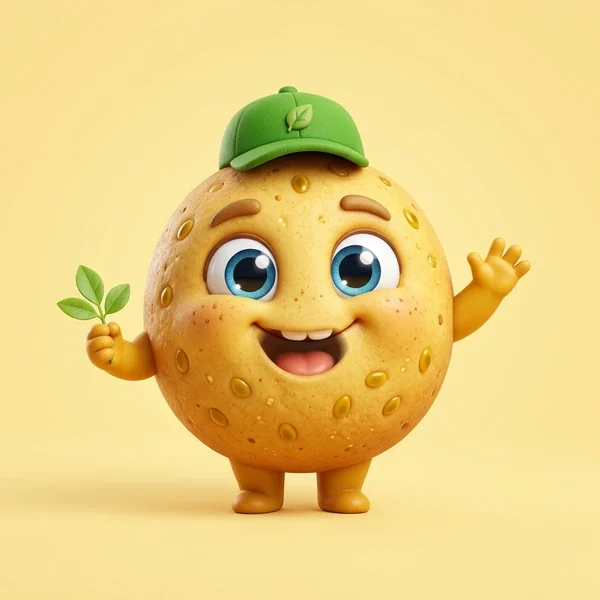
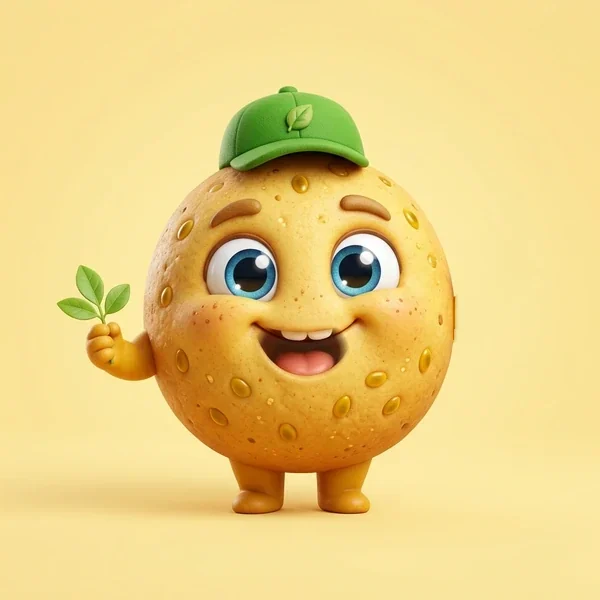
feat: brazo de Maracuyita como capa con saludo real y boca mas fluida
- Brazo separado (arm.webp) que rota desde el hombro por detras del borde del cuerpo
- Saludo con anticipacion y amplitud decreciente: al aparecer, al terminar frase, hover y clic
- Gestos suaves al hablar y balanceo lento en reposo
- Disolucion de 45ms entre bocas y leve movimiento de mandibula
- Coarticulacion: no siempre cierra la boca entre palabras seguidas

Changed region(s): [[0.75, 0.39, 0.9, 0.57]]

diff --git a/src/components/Mascot.jsx b/src/components/Mascot.jsx
@@ -1,4 +1,4 @@
-import { useState, useRef, useEffect } from 'react'
+import { useState, useRef, useEffect, useCallback } from 'react'
 
 const tips = [
   "¡Hola! Soy Maracuyita 🌺 ¡Sabías que nuestras galletas tienen pulpa real de maracuyá maduro seleccionado a mano!",
@@ -20,12 +20,15 @@ const stickers = [
 // Bocas limpias extraídas del render original (sin frames "fantasma" del GIF)
 const MOUTHS = ['closed', 'mid', 'open', 'wide']
 
-// Forma de boca según la vocal dominante de la sílaba
+// Forma de boca según la vocal dominante de la sílaba (con algo de variación para no sonar robótico)
 const visemeFor = (syllable) => {
-  if (/[aá]/i.test(syllable)) return 'wide'
-  if (/[eéoó]/i.test(syllable)) return 'open'
-  return 'mid'
+  const shape = /[aá]/i.test(syllable) ? 'wide' : /[eéoó]/i.test(syllable) ? 'open' : 'mid'
+  if (Math.random() < 0.25) return shape === 'wide' ? 'open' : 'mid'
+  return shape
 }
+
+// Apertura de mandíbula por forma de boca
+const JAW = { closed: 0, mid: 0.4, open: 0.7, wide: 1 }
 
 const syllablesOf = (word) => word.match(/[aeiouáéíóúü]+/gi) || []
 
@@ -37,34 +40,54 @@ const wordTiming = (word) => {
   return { speak, pause }
 }
 
-function MaracuyitaAvatar({ mouth, blinking, speaking }) {
+// Posiciones en % sobre el render de 600x600
+const px = (x, y, w, h) => ({ left: `${x / 6}%`, top: `${y / 6}%`, width: `${w / 6}%`, height: `${h / 6}%` })
+
+function MaracuyitaAvatar({ mouth, blinking, speaking, arm, waveId }) {
+  const jaw = JAW[mouth]
   return (
     <div className={`absolute inset-0 mascot-body ${speaking ? 'is-speaking' : ''}`}>
-      {MOUTHS.map((m) => (
+      <div
+        className="absolute inset-0 mascot-jaw"
+        style={{ transform: `translateY(${jaw * 1.2}px) scaleY(${1 + jaw * 0.012})` }}
+      >
+        {MOUTHS.map((m) => (
+          <img
+            key={m}
+            src={`/images/maracuyita/mouth-${m}.webp`}
+            alt={m === 'closed' ? 'Maracuyita - Mascota oficial de Anávu' : ''}
+            aria-hidden={m !== 'closed'}
+            draggable="false"
+            className={`absolute inset-0 w-full h-full object-cover select-none mouth-layer ${mouth === m ? 'is-active' : ''}`}
+          />
+        ))}
+        {/* Brazo como capa propia: rota desde el hombro, por detrás del borde del cuerpo */}
         <img
-          key={m}
-          src={`/images/maracuyita/mouth-${m}.webp`}
-          alt={m === 'closed' ? 'Maracuyita - Mascota oficial de Anávu' : ''}
-          aria-hidden={m !== 'closed'}
+          key={waveId}
+          src="/images/maracuyita/arm.webp"
+          alt=""
+          aria-hidden="true"
           draggable="false"
-          className="absolute inset-0 w-full h-full object-cover select-none"
-          style={{ opacity: mouth === m ? 1 : 0 }}
+          className={`absolute select-none pointer-events-none mascot-arm arm-${arm}`}
+          style={px(434, 231, 103, 119)}
         />
-      ))}
-      <img
-        src="/images/maracuyita/blink.webp"
-        alt=""
-        aria-hidden="true"
-        draggable="false"
-        className="absolute select-none pointer-events-none"
-        style={{
-          left: '31.667%',
-          top: '35.833%',
-          width: '38.333%',
-          height: '16.667%',
-          opacity: blinking ? 1 : 0,
-        }}
-      />
+        <img
+          src="/images/maracuyita/body-edge.webp"
+          alt=""
+          aria-hidden="true"
+          draggable="false"
+          className="absolute select-none pointer-events-none"
+          style={px(430, 200, 40, 185)}
+        />
+        <img
+          src="/images/maracuyita/blink.webp"
+          alt=""
+          aria-hidden="true"
+          draggable="false"
+          className="absolute select-none pointer-events-none z-[4]"
+          style={{ ...px(190, 215, 230, 100), opacity: blinking ? 1 : 0 }}
+        />
+      </div>
     </div>
   )
 }
@@ -76,17 +99,36 @@ export default function Mascot() {
   const [mouth, setMouth] = useState('closed')
   const [blinking, setBlinking] = useState(false)
   const [visible, setVisible] = useState(false)
+  const [waving, setWaving] = useState(false)
+  const [waveId, setWaveId] = useState(0)
   const sectionRef = useRef(null)
+  const waveTimer = useRef(null)
 
   const currentWords = tips[tipIndex].split(' ')
   const speaking = displayedWords < currentWords.length
 
+  // Saludo con la mano (se reinicia la animación con waveId)
+  const wave = useCallback(() => {
+    clearTimeout(waveTimer.current)
+    setWaveId((id) => id + 1)
+    setWaving(true)
+    waveTimer.current = setTimeout(() => setWaving(false), 1900)
+  }, [])
+
+  useEffect(() => () => clearTimeout(waveTimer.current), [])
+
   // Solo habla cuando la sección está en pantalla
   useEffect(() => {
-    const io = new IntersectionObserver(([entry]) => setVisible(entry.isIntersecting), { threshold: 0.25 })
+    const io = new IntersectionObserver(
+      ([entry]) => {
+        setVisible(entry.isIntersecting)
+        if (entry.isIntersecting) wave() // saluda al aparecer en pantalla
+      },
+      { threshold: 0.25 }
+    )
     if (sectionRef.current) io.observe(sectionRef.current)
     return () => io.disconnect()
-  }, [])
+  }, [wave])
 
   // Palabra por palabra, con la boca sincronizada por sílaba
   useEffect(() => {
@@ -106,7 +148,10 @@ export default function Mascot() {
       const step = speak / syl.length
       syl.forEach((s, i) => {
         at(i * step, () => setMouth(visemeFor(s)))
-        at(i * step + step * 0.65, () => setMouth(i === syl.length - 1 ? 'closed' : 'mid'))
+        // Entre palabras seguidas la boca no siempre cierra del todo (coarticulación)
+        const last = i === syl.length - 1
+        const rest = last && (pause > 40 || Math.random() < 0.5) ? 'closed' : 'mid'
+        at(i * step + step * 0.65, () => setMouth(rest))
       })
     } else {
       at(0, () => setMouth('closed'))
@@ -116,13 +161,14 @@ export default function Mascot() {
       at(speak + pause, () => setDisplayedWords((prev) => prev + 1))
     } else {
       // Frase completa: tiempo de lectura y siguiente tip
+      at(speak + 150, wave)
       at(speak + 3500, () => {
         setTipIndex((prev) => (prev + 1) % tips.length)
         setDisplayedWords(1)
       })
     }
     return () => timers.forEach(clearTimeout)
-  }, [displayedWords, tipIndex, visible])
+  }, [displayedWords, tipIndex, visible, wave])
 
   // Parpadeo aleatorio (a veces doble)
   useEffect(() => {
@@ -202,11 +248,21 @@ export default function Mascot() {
             {/* Mascot Character with Constant Talking & Waving Loop */}
             <div className="flex flex-col items-center">
               <button
-                onClick={nextTip}
+                onClick={() => {
+                  nextTip()
+                  wave()
+                }}
+                onMouseEnter={() => !waving && wave()}
                 className="w-56 h-56 sm:w-64 sm:h-64 rounded-full border-4 border-anavu-green overflow-hidden shadow-2xl hover:scale-[1.03] active:scale-95 transition-transform duration-300 relative group cursor-pointer bg-[#F8DF97]"
                 title="¡Haz clic en Maracuyita para saltar al siguiente tip!"
               >
-                <MaracuyitaAvatar mouth={mouth} blinking={blinking} speaking={speaking && visible} />
+                <MaracuyitaAvatar
+                  mouth={mouth}
+                  blinking={blinking}
+                  speaking={speaking && visible}
+                  arm={waving ? 'wave' : speaking && visible ? 'talk' : 'idle'}
+                  waveId={waveId}
+                />
 
                 <span className="absolute bottom-3 left-1/2 -translate-x-1/2 whitespace-nowrap bg-anavu-green text-anavu-yellow font-extrabold text-[10px] sm:text-xs px-3 py-1 rounded-full shadow-lg border border-anavu-yellow flex items-center gap-1.5">
                   <span className={`w-1.5 h-1.5 rounded-full bg-anavu-yellow ${speaking ? 'animate-pulse' : ''}`}></span>

diff --git a/src/index.css b/src/index.css
@@ -97,8 +97,44 @@ body {
 .mascot-body.is-speaking { animation: mascot-talk 1.1s ease-in-out infinite; }
 .animate-word-in { animation: word-in 0.22s ease-out both; }
 
+/* Bocas: la nueva aparece encima en 45ms y la anterior se apaga después (sin frames fantasma) */
+.mouth-layer { opacity: 0; z-index: 0; transition: opacity 0s linear 45ms; }
+.mouth-layer.is-active { opacity: 1; z-index: 1; transition: opacity 45ms ease-out; }
+.mascot-jaw { transform-origin: 50% 90%; transition: transform 90ms ease-out; }
+
+/* Brazo: pivote en el hombro (15.5% / 76.5% de la capa) */
+.mascot-arm { transform-origin: 15.5% 76.5%; z-index: 2; will-change: transform; }
+.mascot-arm + img { z-index: 3; }
+.arm-idle { animation: arm-idle 3.8s ease-in-out infinite; }
+.arm-talk { animation: arm-talk 2.4s ease-in-out infinite; }
+.arm-wave { animation: arm-wave 1.8s cubic-bezier(0.45, 0, 0.55, 1) both; }
+@keyframes arm-idle {
+  0%, 100% { transform: rotate(0deg); }
+  50% { transform: rotate(-3deg); }
+}
+@keyframes arm-talk {
+  0%, 100% { transform: rotate(0deg); }
+  20% { transform: rotate(-6deg); }
+  38% { transform: rotate(1deg); }
+  55% { transform: rotate(-3deg); }
+  75% { transform: rotate(2deg); }
+}
+/* Anticipación hacia abajo, luego vaivén con amplitud que decae */
+@keyframes arm-wave {
+  0% { transform: rotate(0deg); }
+  8% { transform: rotate(4deg); }
+  22% { transform: rotate(-16deg); }
+  36% { transform: rotate(6deg); }
+  50% { transform: rotate(-14deg); }
+  64% { transform: rotate(4deg); }
+  78% { transform: rotate(-8deg); }
+  90% { transform: rotate(1deg); }
+  100% { transform: rotate(0deg); }
+}
+
 @media (prefers-reduced-motion: reduce) {
-  .mascot-body, .mascot-body.is-speaking, .animate-word-in { animation: none; }
+  .mascot-body, .mascot-body.is-speaking, .animate-word-in, .mascot-arm { animation: none; }
+  .mouth-layer, .mouth-layer.is-active, .mascot-jaw { transition: none; }
 }
 
 /* Stagger animations */
